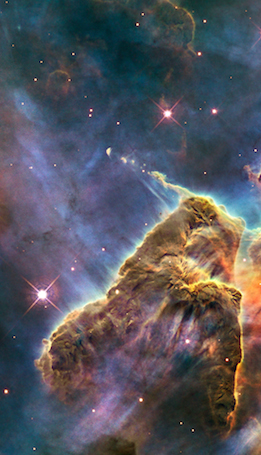
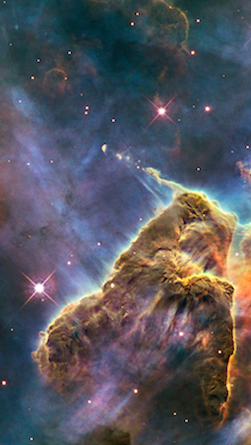
Modified facetoaster with nexus skin

diff --git a/facetoaster/public/css/style.css b/facetoaster/public/css/style.css
@@ -358,18 +358,16 @@ img {
 .frame {
   position: absolute;
   display: block;
-  height: 636px;
-  width: 301px;
+  height: 700px;
+  width: 400px;
   z-index: 1000;
-  margin-top: -318px;
-  margin-left: -150px;
+  margin-top: -353px;
+  margin-left: -203px;
   top: 50%;
   left: 50%;
-  background: url("../img/frame-iphone-trans.png");
+  background: url("../img/nexusTemplate.png");
 }
-.frame.night {
-  background: url("../img/frame-iphone-trans-dark.png");
-}
+
 /* DESCRIPTION */
 .description {
   text-align: right;
